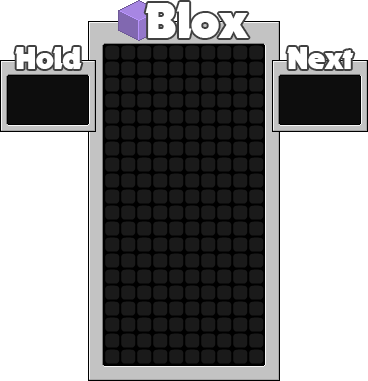
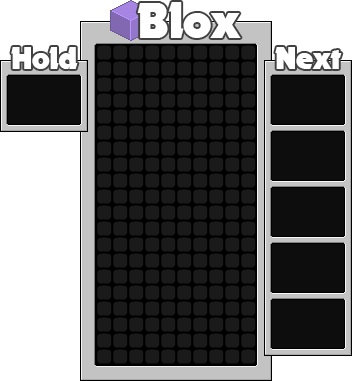
Added UI spots for viewing up to 5 nextTetriminos

diff --git a/Tetris/Constants.cpp b/Tetris/Constants.cpp
@@ -28,8 +28,8 @@ const int BOARD_ORIGIN_Y = 224;   // Y-origin position the board appears on the 
 const int NC_ORIGIN_X = BOARD_ORIGIN_X + 176;    // X-origin for the next container
 const int NC_ORIGIN_Y = BOARD_ORIGIN_Y + 31;   // Y-origin for the next container
 
-const int HC_ORIGIN_X = BOARD_ORIGIN_X - 96; // X-origin for the held container
+const int HC_ORIGIN_X = BOARD_ORIGIN_X - 88; // X-origin for the held container
 const int HC_ORIGIN_Y = BOARD_ORIGIN_Y + 31; // Y-origin for the held container
 
-const int CONTAINER_WIDTH = 80;
+const int CONTAINER_WIDTH = 72;
 const int CONTAINER_HEIGHT = 48;

diff --git a/Tetris/Game.cpp b/Tetris/Game.cpp
@@ -709,7 +709,7 @@ bool Game::updateScreen()  // This function is kind of pointless lol
 
 void Game::drawInterface()
 {
-  apply_surface(BOARD_ORIGIN_X - 104 , BOARD_ORIGIN_Y - 45, boardOutline, screen);
+  apply_surface(BOARD_ORIGIN_X - 96 , BOARD_ORIGIN_Y - 45, boardOutline, screen);
 }
 
 void Game::holdTetrimino()
